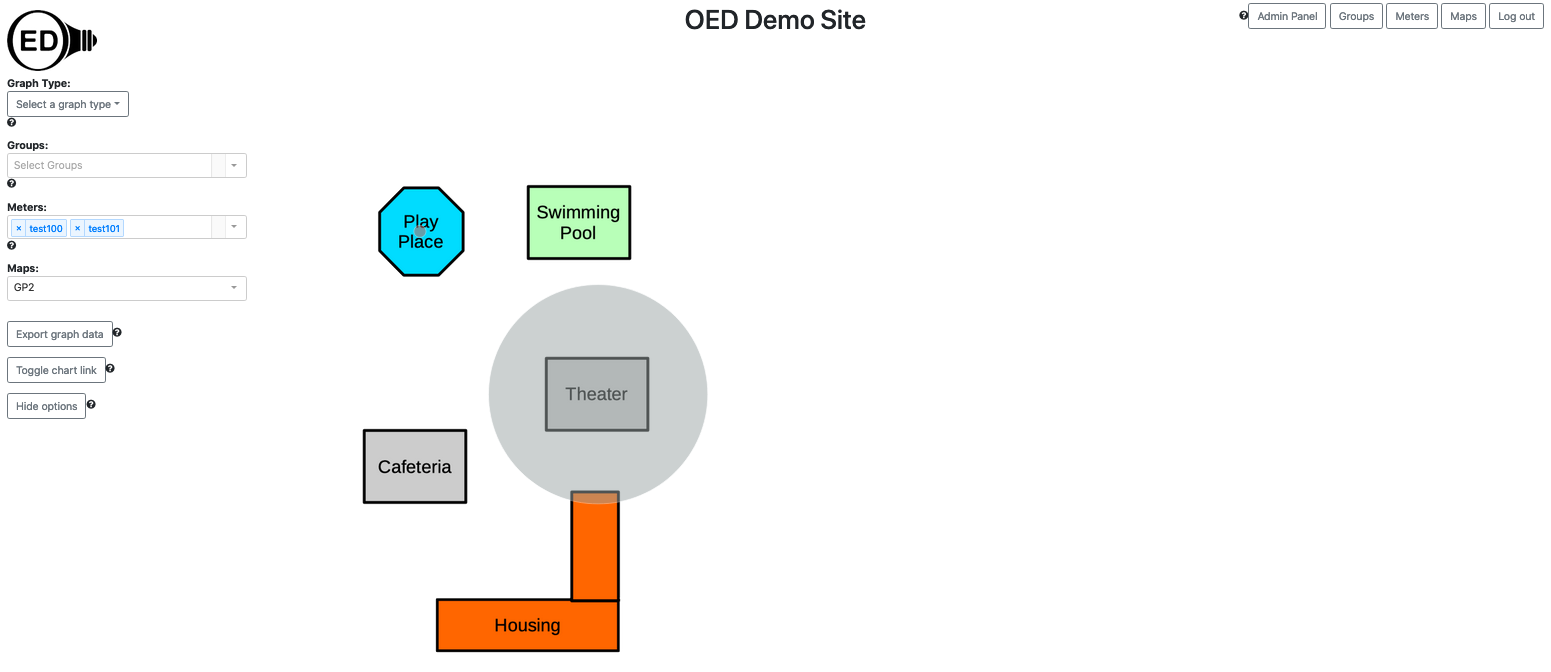
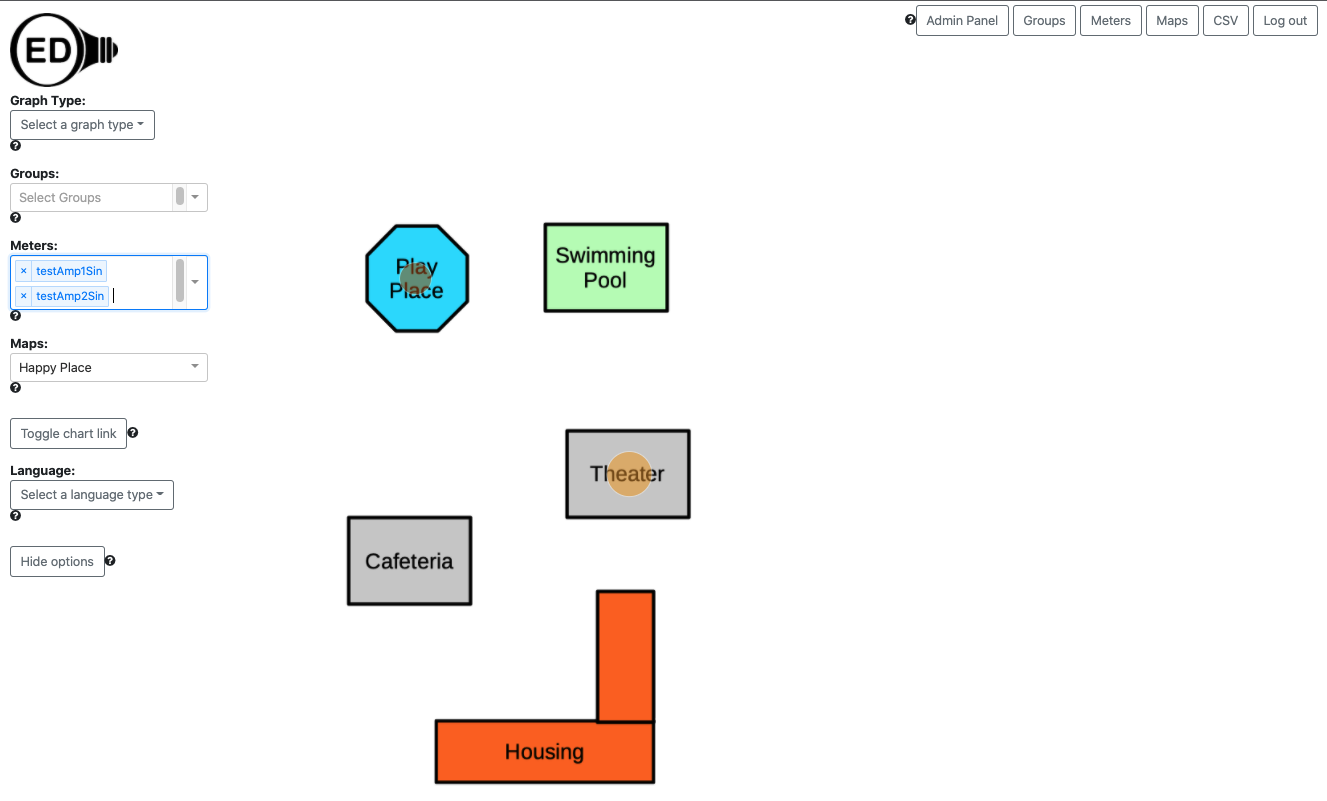
update info on maps and  with meters v0.7.0
- Removed warning on circle size and updated map image for developers.
- Added v0.7.0 help for admin to see meters after import.
- Same info linked to readings import when create meter.

diff --git a/help/v0.7.0/adminReadingsImport.html b/help/v0.7.0/adminReadingsImport.html
@@ -114,8 +114,9 @@ title: OED admin reading import help
             later. If the meter already exists and this is "true" then a warning is placed in the OED logs (but
             not returned as part of the messages). If set "false" but the meter does not exist then OED throws and error
             that will stop the readings upload so no readings are processed. Note that the meter is created before the
-            readings are processes so it will exist even if the readings are later reject. The default value
-            is "false".</li>
+            readings are processed so it will exist even if the readings are later reject. The default value
+            is "false". Also note that new meters are not immediately visible when graphing. This and a solution is
+            described <a href="./adminMetersImport.html#newMeter">here</a>.</li>
         <li><i>Is CSV file in gzip format ("Gzip" checked if true on web page; <code>gzip</code> parameter on direct
                 file upload)</i>: Note this is the Gnu zip format and not a standard .zip file format. The default value
             is true. Note that gzip files are smaller in size for upload and also have internal validation to protect

diff --git a/help/v0.7.0/adminMetersImport.html b/help/v0.7.0/adminMetersImport.html
@@ -236,5 +236,17 @@ title: OED admin meter import help
     </ul>
 
     <h2 id="details">Details</h2>
-    <p>None at this time.</p>
+    <p id=newMeter>Note that for efficiency reasons and because it is uncommon for the meters to change, OED does not automatically
+        recheck for new meters when doing graphing. If you add new meters, there are two ways to get them to be
+        available for graphing:</p>
+    <ol>
+        <li>You can visit the <a href="./adminMeterViewing.html">Meters viewing page</a> if logged in as an admin. This
+            page works directly with meter information and
+            it does recheck for updates. Once this is done, any new meters will also be available for graphing. This is
+            the fastest/easiest way to do this.</li>
+        <li>You can refresh the web browser page with OED. This will cause it to return to the initial state with
+            updated information. However, you will lose all unsaved changes along with any selected meters/graphics
+            meaning you are restarting from scratch. This is probably only desireable if someone who is not an admin
+            needs to see the meter changes right away.</li>
+    </ol>
 </div>

diff --git a/developer/testMap.html b/developer/testMap.html
@@ -6,10 +6,7 @@ title: OED map data
 <div>
 	<h1>OED developer map data</h1>
 	<p>The following assumes you have loaded the <a href="testData.html">test data</a> into your development OED system.
-		You can use other meter data but the size of the circles cannot be guaranteed in version 0.6.</p>
-	<p>Version 0.6 has several issues with maps that impact the size and value displayed. The following accounts for
-		these issues. As they are addressed in OED, you will likely find a need to change how you test maps. This page
-		should be updated as this happens.</p>
+		You can use other meter data if you prefer.</p>
 	<p>Please use the <a href="../help/v0.7.0/adminMap.html">admin map help</a> for information on how to load and calibrate a
 		map. This page only describes the necessary details of the test map. You need to be logged in as an admin to
 		complete these steps.</p>
